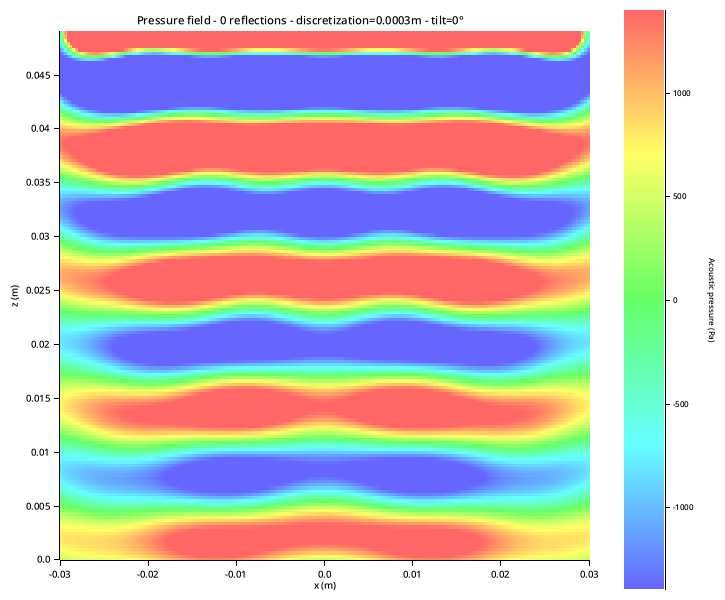
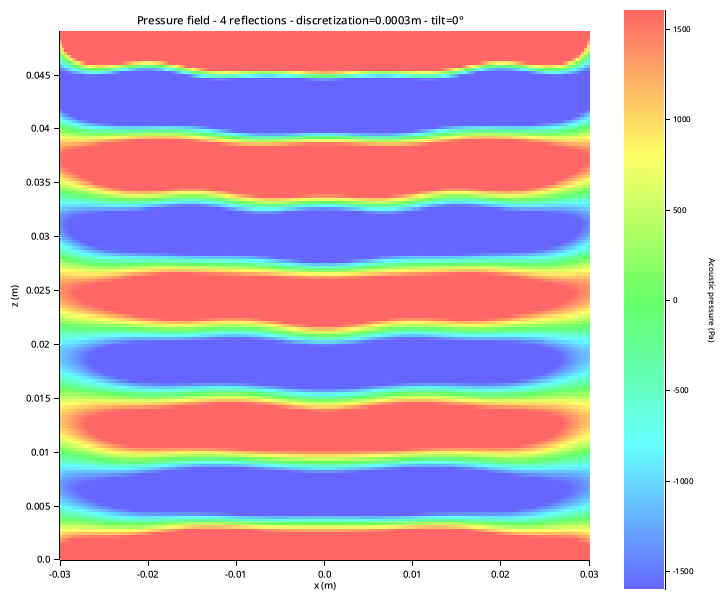
last update

diff --git a/src/main.rs b/src/main.rs
@@ -27,7 +27,7 @@ fn main() {
         z_min: 0.0 * MM,
         z_max: 49.0 * MM,
 
-        nb_reflection: 0,
+        nb_reflection: 4,
         disc: 0.3 * MM,
 
         freq: 28_000.0,
